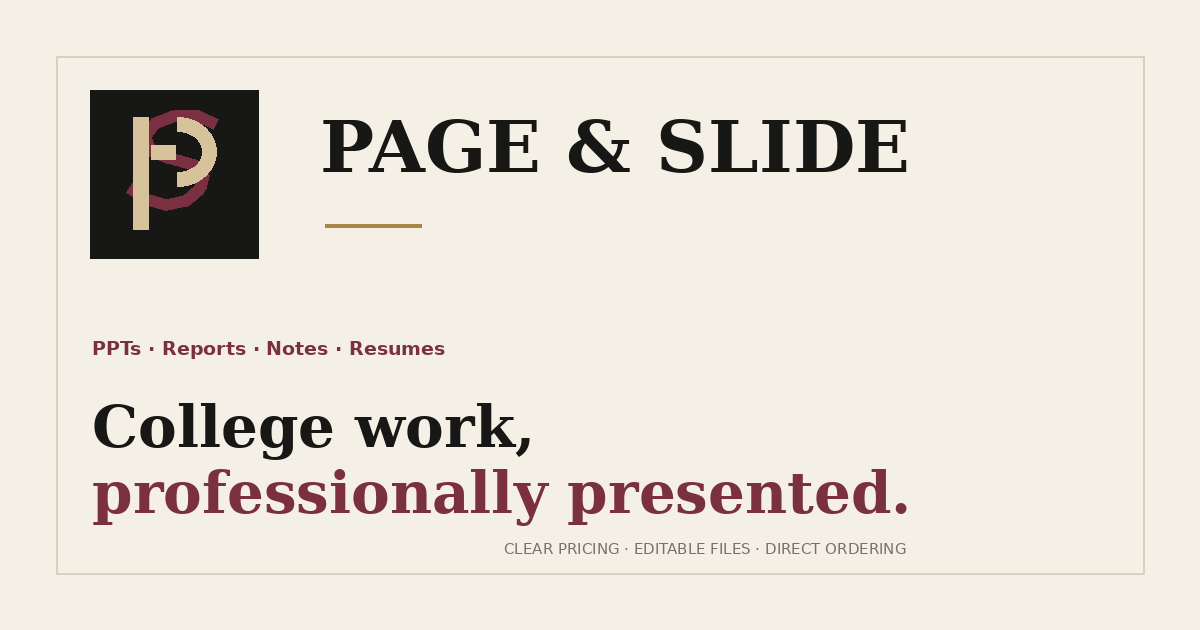
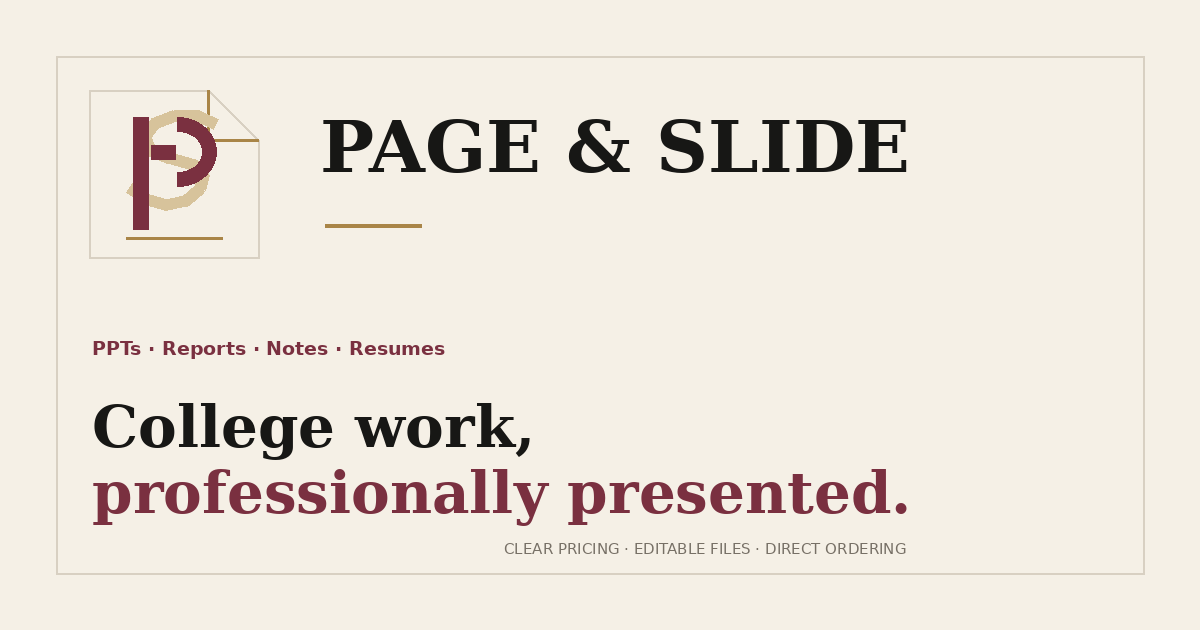
feat: polish Page and Slide brand presentation

Changed region(s): [[0.0617, 0.1206, 0.2158, 0.4222]]

diff --git a/client/src/pages/Home.tsx b/client/src/pages/Home.tsx
@@ -13,5 +13,5 @@ const priceAnchors = [
 ] as const;
 
 export default function Home() {
-  return <StorefrontLayout><main><section className="hero-section" aria-labelledby="hero-title"><div className="hero-folio-mark" aria-hidden="true"><img src="/logo-mark.svg" alt="" /><span>STUDENT<br />SUPPORT</span></div><div className="hero-content"><p className="eyebrow">PPTs · Reports · Notes · Resumes</p><h1 id="hero-title">Your college work,<br /><em>professionally presented.</em></h1><p className="hero-copy">Choose the service and size you need, see the price upfront, and send your order directly through WhatsApp or Telegram. Editable files included.</p><div className="price-anchors" aria-label="Starting prices">{priceAnchors.map((anchor) => { const service = SERVICE_CATEGORIES.find((entry) => entry.id === anchor.serviceId); const firstTier = service?.tiers.find((tier) => tier.addable !== false); return <a href={`#service-${anchor.serviceId}`} key={anchor.serviceId}><span>{anchor.label}</span><strong>{anchor.suffix} {firstTier ? formatRupees(firstTier.price) : "—"}</strong></a>; })}</div><div className="hero-actions"><a className="primary-action" href="#services">Browse services <ArrowDownRight size={17} aria-hidden="true" /></a><a className="text-action" href="#how-it-works">How it works <span aria-hidden="true">→</span></a></div></div></section><section className="trust-strip" aria-label="Page & Slide principles"><div><strong>CLEAR PRICING</strong><span>Know the rate before you enquire.</span></div><div><strong>EDITABLE FILES</strong><span>Stay in control of final changes.</span></div><div><strong>DIRECT ORDERING</strong><span>Share the brief when you are ready.</span></div></section><ServiceCatalogue onAdded={() => undefined} /><section className="why-section" aria-labelledby="why-title"><div><p className="eyebrow">WHY PAGE & SLIDE</p><h2 id="why-title">A calmer way to finish the work.</h2></div><div className="why-copy"><p>Page & Slide is built for college students who want their work to read clearly, look considered and remain editable after delivery.</p><div className="why-points"><span><b>01</b><strong>Start with the scope</strong><small>Choose a service and a size, not a vague promise.</small></span><span><b>02</b><strong>See the number first</strong><small>Catalogue pricing keeps the first conversation straightforward.</small></span><span><b>03</b><strong>Keep the working file</strong><small>Editable delivery helps you make the final decisions.</small></span></div></div></section><section className="process-section" id="how-it-works" aria-labelledby="process-title"><div className="process-heading"><p className="eyebrow">HOW IT WORKS</p><h2 id="process-title">A short route from brief to order.</h2></div><ol className="process-list"><li><span>01</span><h3>Choose your service</h3><p>Select the format and size you need.</p></li><li><span>02</span><h3>Review your order</h3><p>Add your deadline and requirements.</p></li><li><span>03</span><h3>Send the brief</h3><p>Continue through WhatsApp or Telegram and confirm availability.</p></li></ol></section><FaqSection /><section className="final-cta"><p className="eyebrow">READY WHEN YOU ARE</p><h2>Have something<br /><em>due soon?</em></h2><p>Select what you need, review the price, and send us the details.</p><a href="#services" className="primary-action">Browse services <ArrowUpRight size={17} aria-hidden="true" /></a></section></main></StorefrontLayout>;
+  return <StorefrontLayout><main><section className="hero-section" aria-labelledby="hero-title"><div className="hero-content"><p className="eyebrow">PPTs · Reports · Notes · Resumes</p><h1 id="hero-title">College work,<br /><em>beautifully presented.</em></h1><p className="hero-copy">PPTs, reports, notes and resumes — choose what you need, see the price upfront, and order directly through WhatsApp or Telegram. Editable files included.</p><div className="price-anchors" aria-label="Starting prices">{priceAnchors.map((anchor) => { const service = SERVICE_CATEGORIES.find((entry) => entry.id === anchor.serviceId); const firstTier = service?.tiers.find((tier) => tier.addable !== false); return <a href={`#service-${anchor.serviceId}`} key={anchor.serviceId}><span>{anchor.label}</span><strong>{anchor.suffix} {firstTier ? formatRupees(firstTier.price) : "—"}</strong></a>; })}</div><div className="hero-actions"><a className="primary-action" href="#services">Browse services <ArrowDownRight size={17} aria-hidden="true" /></a><a className="text-action" href="#how-it-works">How it works <span aria-hidden="true">→</span></a></div></div></section><section className="trust-strip" aria-label="Page & Slide principles"><div><strong>CLEAR PRICING</strong><span>Know the rate before you enquire.</span></div><div><strong>EDITABLE FILES</strong><span>Stay in control of final changes.</span></div><div><strong>DIRECT ORDERING</strong><span>Share the brief when you are ready.</span></div></section><ServiceCatalogue onAdded={() => undefined} /><section className="why-section" aria-labelledby="why-title"><div><p className="eyebrow">WHY PAGE & SLIDE</p><h2 id="why-title">A calmer way to finish the work.</h2></div><div className="why-copy"><p>Page & Slide is built for college students who want their work to read clearly, look considered and remain editable after delivery.</p><div className="why-points"><span><b>01</b><strong>Start with the scope</strong><small>Choose a service and a size, not a vague promise.</small></span><span><b>02</b><strong>See the number first</strong><small>Catalogue pricing keeps the first conversation straightforward.</small></span><span><b>03</b><strong>Keep the working file</strong><small>Editable delivery helps you make the final decisions.</small></span></div></div></section><section className="process-section" id="how-it-works" aria-labelledby="process-title"><div className="process-heading"><p className="eyebrow">HOW IT WORKS</p><h2 id="process-title">A short route from brief to order.</h2></div><ol className="process-list"><li><span>01</span><h3>Choose your service</h3><p>Select the format and size you need.</p></li><li><span>02</span><h3>Review your order</h3><p>Add your deadline and requirements.</p></li><li><span>03</span><h3>Send the brief</h3><p>Continue through WhatsApp or Telegram and confirm availability.</p></li></ol></section><FaqSection /><section className="final-cta"><p className="eyebrow">READY WHEN YOU ARE</p><h2>Have something<br /><em>due soon?</em></h2><p>Select what you need, review the price, and send us the details.</p><a href="#services" className="primary-action">Browse services <ArrowUpRight size={17} aria-hidden="true" /></a></section></main></StorefrontLayout>;
 }

diff --git a/client/src/index.css b/client/src/index.css
@@ -83,7 +83,7 @@ a:focus-visible, button:focus-visible, input:focus-visible, textarea:focus-visib
 }
 
 .wordmark img { width: 28px; height: 28px; }
-.wordmark-rule { width: 13px; height: 1px; display: inline-block; margin: 0 3px 4px; background: var(--gold); vertical-align: middle; }
+.wordmark-ampersand { display: inline-block; margin: 0 2px; color: var(--wine); font-family: "Cormorant Garamond", Georgia, serif; font-size: 1.45em; font-style: italic; font-weight: 600; letter-spacing: 0; line-height: .7; transform: translateY(1px) rotate(-8deg); }
 
 .site-nav { display: flex; gap: 30px; font-size: 12px; letter-spacing: .04em; }
 .site-nav a, .text-action, .footer-top nav a, .footer-top nav button {
@@ -136,10 +136,10 @@ a:focus-visible, button:focus-visible, input:focus-visible, textarea:focus-visib
 /* Hero Section */
 .hero-section {
   position: relative;
-  min-height: 640px;
+  min-height: 580px;
   max-width: 1440px;
   margin: 0 auto;
-  padding: clamp(80px, 10vw, 144px) 4.5vw 90px;
+  padding: clamp(72px, 8.5vw, 118px) 4.5vw 78px;
   border-bottom: 1px solid var(--line);
   display: flex;
   align-items: center;
@@ -175,10 +175,10 @@ h1, h2 {
   line-height: .92;
 }
 
-h1 { max-width: 720px; margin-bottom: 28px; font-size: clamp(3.65rem, 8vw, 7.25rem); }
+h1 { max-width: 680px; margin-bottom: 24px; font-size: clamp(3.2rem, 6.6vw, 6rem); }
 h1 em, h2 em { color: var(--wine); font-weight: 500; }
 
-.hero-copy { max-width: 535px; margin-bottom: 32px; color: var(--soft-charcoal); font-size: clamp(1rem, 1.3vw, 1.13rem); }
+.hero-copy { max-width: 600px; margin-bottom: 30px; color: var(--soft-charcoal); font-size: clamp(1rem, 1.2vw, 1.1rem); }
 
 .price-anchors {
   display: flex;
@@ -219,17 +219,6 @@ h1 em, h2 em { color: var(--wine); font-weight: 500; }
 
 .text-action { color: var(--charcoal); font-size: 13px; font-weight: 600; }
 
-.hero-folio-mark {
-  position: absolute;
-  top: 38px;
-  right: 4.5vw;
-  display: grid;
-  gap: 8px;
-  text-align: right;
-}
-
-.hero-folio-mark img { width: 48px; height: 48px; justify-self: end; }
-.hero-folio-mark span { font-size: 9px; letter-spacing: .12em; color: var(--gold); line-height: 1.2; }
 
 /* Trust Strip */
 .trust-strip {
@@ -606,11 +595,10 @@ h1 em, h2 em { color: var(--wine); font-weight: 500; }
 @media (max-width: 767px) {
   .topbar-inner { min-height: 64px; padding: 0 17px; grid-template-columns: 1fr auto; }
   .site-nav { display: none; }
-  .hero-section { min-height: 560px; padding: 78px 24px 92px; }
+  .hero-section { min-height: 510px; padding: 68px 24px 76px; }
   .hero-section::before { left: 24px; }
   .hero-content { padding-left: 20px; }
-  h1 { font-size: clamp(3.6rem, 17vw, 5.25rem); }
-  .hero-folio-mark { top: 29px; right: 22px; }
+  h1 { font-size: clamp(3.35rem, 15.5vw, 4.8rem); }
   .hero-actions { gap: 22px; }
   .price-anchors { gap: 12px 24px; }
 

diff --git a/client/src/components/StorefrontLayout.tsx b/client/src/components/StorefrontLayout.tsx
@@ -26,7 +26,7 @@ export function StorefrontLayout({ children }: PropsWithChildren) {
   return <div className="site-shell" id="top">
     <SiteHeader itemCount={itemCount} onOpenCart={openCart} />
     {children}
-    <footer className="site-footer"><div className="footer-top"><div><a href="/" className="wordmark wordmark--footer" aria-label="Page & Slide home"><img src="/logo-mark.svg" alt="" aria-hidden="true" /><span>PAGE <span className="wordmark-rule" /> SLIDE</span></a><p>Student presentation and document support.</p></div><nav aria-label="Footer navigation"><a href="/#services">Services</a><a href="/#how-it-works">How it works</a><a href="/#faq">FAQ</a><a href="/contact">Contact</a><a href="/accessibility">Accessibility</a><span className="footer-group-label">Policies</span><a href="/terms">Terms</a><a href="/privacy">Privacy</a><a href="/refunds">Refunds</a><a href="/delivery-revisions">Delivery</a><a href="/academic-integrity">Academic integrity</a><FooterContactActions /></nav></div><div className="footer-bottom"><span>© {new Date().getFullYear()} Page & Slide. All rights reserved.</span><span>For college students generally. No college or university affiliation is claimed.</span></div></footer>
+    <footer className="site-footer"><div className="footer-top"><div><a href="/" className="wordmark wordmark--footer" aria-label="Page & Slide home"><img src="/logo-mark.svg" alt="" aria-hidden="true" /><span>PAGE <span className="wordmark-ampersand" aria-hidden="true">&amp;</span> SLIDE</span></a><p>Student presentation and document support.</p></div><nav aria-label="Footer navigation"><a href="/#services">Services</a><a href="/#how-it-works">How it works</a><a href="/#faq">FAQ</a><a href="/contact">Contact</a><a href="/accessibility">Accessibility</a><span className="footer-group-label">Policies</span><a href="/terms">Terms</a><a href="/privacy">Privacy</a><a href="/refunds">Refunds</a><a href="/delivery-revisions">Delivery</a><a href="/academic-integrity">Academic integrity</a><FooterContactActions /></nav></div><div className="footer-bottom"><span>© {new Date().getFullYear()} Page & Slide. All rights reserved.</span><span>For college students generally. No college or university affiliation is claimed.</span></div></footer>
     <p className="sr-only" aria-live="polite">{cartMessage}</p>
     {itemCount > 0 && <button type="button" className="mobile-cart-bar" onClick={openCart}><span><ShoppingBag size={17} aria-hidden="true" /> {itemCount} {itemCount === 1 ? "item" : "items"}</span><strong>{formatRupees(subtotal)}</strong><b>View order <span aria-hidden="true">→</span></b></button>}
     <CartDialog open={cartOpen} onOpenChange={setCartOpen} onCloseFocus={restoreCartFocus} onReview={() => { setCartOpen(false); setDetailsOpen(true); }} />

diff --git a/client/src/config/site.ts b/client/src/config/site.ts
@@ -16,8 +16,8 @@ export function toSiteUrl(path = "/"): string {
 }
 
 export const SITE_METADATA = {
-  title: "Page & Slide | College work, professionally presented",
-  description: "Presentation design, assignment support, project reports, notes and resumes for college students. Clear INR pricing, editable files and direct WhatsApp or Telegram ordering.",
+  title: "Page & Slide | PPTs, Reports, Notes & Resumes for Students",
+  description: "PPTs, reports, notes and resumes for students. Choose what you need, see the price upfront, and order directly through WhatsApp or Telegram. Editable files included.",
   canonicalUrl: SITE_URL,
   socialImageUrl: toSiteUrl("/page-and-slide-social.png"),
   socialImageWidth: 1200,
@@ -34,7 +34,7 @@ export type PublicRoute = Readonly<{
 }>;
 
 const ROUTE_DEFINITIONS: readonly PublicRoute[] = [
-  { path: "/", title: SITE_METADATA.title, description: SITE_METADATA.description, h1: "Your college work, professionally presented.", summary: "Choose a presentation, report, notes, resume or assignment-support service, review the price upfront, and send your brief through WhatsApp or Telegram.", indexable: true },
+  { path: "/", title: SITE_METADATA.title, description: SITE_METADATA.description, h1: "College work, beautifully presented.", summary: "PPTs, reports, notes and resumes — choose what you need, see the price upfront, and order directly through WhatsApp or Telegram. Editable files included.", indexable: true },
   { path: "/presentations", title: "Presentation Design for College Students | Page & Slide", description: "Editable presentation design for college students, with clear INR pricing, considered slide layouts and direct WhatsApp or Telegram ordering.", h1: "Presentations that make the point clearly.", summary: "Choose an editable presentation package by slide count, from up to 5 slides at ₹99.", indexable: true },
   { path: "/assignment-support", title: "Assignment Support and Formatting | Page & Slide", description: "Assignment formatting, editing, organisation and presentation support for college students, with transparent INR pricing and editable output.", h1: "Assignment support, with structure.", summary: "Get help with formatting, editing, organisation and presentation polish, with packages from ₹79.", indexable: true },
   { path: "/project-reports", title: "Project Report Formatting for College Students | Page & Slide", description: "Project report formatting and presentation polish for college students, with editable files, transparent INR pricing and direct ordering.", h1: "Project reports with a considered finish.", summary: "Choose an editable project-report package by page count, from up to 20 pages at ₹199.", indexable: true },

diff --git a/client/src/components/SiteHeader.tsx b/client/src/components/SiteHeader.tsx
@@ -3,5 +3,5 @@ import { ShoppingBag } from "lucide-react";
 type SiteHeaderProps = Readonly<{ itemCount: number; onOpenCart: () => void }>;
 
 export function SiteHeader({ itemCount, onOpenCart }: SiteHeaderProps) {
-  return <header className="site-header"><div className="topbar-inner"><a href="/" className="wordmark" aria-label="Page & Slide home"><img src="/logo-mark.svg" alt="" aria-hidden="true" /><span>PAGE <span className="wordmark-rule" /> SLIDE</span></a><nav className="site-nav" aria-label="Primary navigation"><a href="/#services">Services</a><a href="/#how-it-works">How it works</a><a href="/#faq">FAQ</a><a href="/contact">Contact</a></nav><button className="cart-toggle" type="button" onClick={onOpenCart} aria-label={`Open cart, ${itemCount} items`}><ShoppingBag size={18} strokeWidth={1.7} aria-hidden="true" /><span>Cart</span>{itemCount > 0 && <span className="cart-count" aria-hidden="true">{itemCount}</span>}</button></div></header>;
+  return <header className="site-header"><div className="topbar-inner"><a href="/" className="wordmark" aria-label="Page & Slide home"><img src="/logo-mark.svg" alt="" aria-hidden="true" /><span>PAGE <span className="wordmark-ampersand" aria-hidden="true">&amp;</span> SLIDE</span></a><nav className="site-nav" aria-label="Primary navigation"><a href="/#services">Services</a><a href="/#how-it-works">How it works</a><a href="/#faq">FAQ</a><a href="/contact">Contact</a></nav><button className="cart-toggle" type="button" onClick={onOpenCart} aria-label={`Open cart, ${itemCount} items`}><ShoppingBag size={18} strokeWidth={1.7} aria-hidden="true" /><span>Cart</span>{itemCount > 0 && <span className="cart-count" aria-hidden="true">{itemCount}</span>}</button></div></header>;
 }

diff --git a/e2e/hosted-preview.spec.ts b/e2e/hosted-preview.spec.ts
@@ -13,9 +13,9 @@ test("Vercel preview passes responsive, cart, checkout, accessibility, and safet
   page.on("response", (response) => { if (response.status() >= 400) failedResponses.push(`${response.status()} ${response.url()}`); });
 
   await page.goto(hostedUrl!, { waitUntil: "domcontentloaded" });
-  await expect(page).toHaveTitle("Page & Slide | College work, professionally presented");
+  await expect(page).toHaveTitle("Page & Slide | PPTs, Reports, Notes & Resumes for Students");
   await expect(page.getByRole("heading", { level: 1 })).toHaveCount(1);
-  await expect(page.getByRole("heading", { name: /Your college work/i })).toBeVisible();
+  await expect(page.getByRole("heading", { name: /College work/i })).toBeVisible();
   await expect(page.getByText("PPTs · Reports · Notes · Resumes", { exact: true })).toBeVisible();
   await expect(page.getByRole("navigation", { name: "Primary navigation" })).toBeVisible();
   await expect(page.getByRole("button", { name: /Open cart, 0 items/i })).toBeVisible();
@@ -67,7 +67,7 @@ test("Vercel preview passes responsive, cart, checkout, accessibility, and safet
   for (const width of requestedWidths) {
     await page.setViewportSize({ width, height: 900 });
     await page.reload({ waitUntil: "domcontentloaded" });
-    await expect(page.getByRole("heading", { name: /Your college work/i })).toBeVisible();
+    await expect(page.getByRole("heading", { name: /College work/i })).toBeVisible();
     await expect(page.locator(".catalogue-section")).toBeVisible();
     await expect(page.locator(".process-section")).toBeVisible();
     await expect(page.locator(".faq-section")).toBeVisible();

diff --git a/client/src/config/site.test.ts b/client/src/config/site.test.ts
@@ -6,8 +6,8 @@ describe("production search configuration", () => {
     expect(SITE_ORIGIN).toBe("https://pageandslide.vercel.app");
     expect(SITE_URL).toBe("https://pageandslide.vercel.app/");
     expect(SITE_METADATA.canonicalUrl).toBe(SITE_URL);
-    expect(SITE_METADATA.title).toBe("Page & Slide | College work, professionally presented");
-    expect(SITE_METADATA.description).toContain("college students");
+    expect(SITE_METADATA.title).toBe("Page & Slide | PPTs, Reports, Notes & Resumes for Students");
+    expect(SITE_METADATA.description).toContain("students");
     expect(SITE_METADATA.title).not.toMatch(/MCC|Madras Christian College/i);
     expect(SITE_METADATA.socialImageUrl).toBe("https://pageandslide.vercel.app/page-and-slide-social.png");
     expect(ORGANIZATION_DETAILS.telephone).toBe("+91 9025857269");

diff --git a/e2e/customer-path.spec.ts b/e2e/customer-path.spec.ts
@@ -2,7 +2,7 @@ import { expect, test } from "@playwright/test";
 
 test("customer can add a service, review it, and receive the configured WhatsApp order link", async ({ page }) => {
   await page.goto("/");
-  await expect(page.getByRole("heading", { name: /Your college work/i })).toBeVisible();
+  await expect(page.getByRole("heading", { name: /College work/i })).toBeVisible();
   await page.getByRole("button", { name: "Add" }).first().click();
   await page.getByRole("button", { name: /Open cart, 1 items/i }).click();
   await expect(page.getByRole("dialog", { name: /Order/i })).toBeVisible();

diff --git a/e2e/responsive.spec.ts b/e2e/responsive.spec.ts
@@ -8,7 +8,7 @@ test("the editorial catalogue has no horizontal overflow at all required breakpo
   for (const [width, height] of viewports) {
     await page.setViewportSize({ width, height });
     await page.goto("/");
-    await expect(page.getByRole("heading", { name: /Your college work/i })).toBeVisible();
+    await expect(page.getByRole("heading", { name: /College work/i })).toBeVisible();
     expect(await page.evaluate(() => document.documentElement.scrollWidth <= window.innerWidth)).toBe(true);
   }
 });

diff --git a/scripts/generate-social-assets.py b/scripts/generate-social-assets.py
@@ -23,18 +23,22 @@ def font(name: str, size: int) -> ImageFont.FreeTypeFont:
 
 
 def monogram(draw: ImageDraw.ImageDraw, x: int, y: int, size: int) -> None:
-    draw.rectangle((x, y, x + size, y + size), fill=CHARCOAL)
     scale = size / 168
-    # Custom geometric S: a single burgundy ribbon behind the P, not a font glyph.
+    page = [(x, y), (x + int(118 * scale), y), (x + size, y + int(50 * scale)), (x + size, y + size), (x, y + size)]
+    draw.polygon(page, fill=IVORY)
+    draw.line(page + [page[0]], fill=LINE, width=max(2, int(2 * scale)))
+    draw.line((x + int(118 * scale), y, x + int(118 * scale), y + int(50 * scale), x + size, y + int(50 * scale)), fill="#a98547", width=max(2, int(3 * scale)))
+    # Custom geometric S: a single champagne ribbon behind the P, not a font glyph.
     s_points = [(126, 34), (109, 26), (84, 26), (63, 34), (54, 47), (59, 59), (78, 67), (103, 74), (113, 84), (109, 99), (95, 111), (76, 115), (55, 109), (39, 98)]
-    draw.line([(x + px * scale, y + py * scale) for px, py in s_points], fill=BURGUNDY, width=max(5, int(12 * scale)), joint="curve")
-    # Custom champagne P: a strong stem and open bowl that locks with the S.
+    draw.line([(x + px * scale, y + py * scale) for px, py in s_points], fill=GOLD, width=max(5, int(12 * scale)), joint="curve")
+    # Custom burgundy P: a strong stem and open bowl that locks with the S.
     stem_x = x + int(43 * scale)
     stem_width = max(6, int(15 * scale))
-    draw.rectangle((stem_x, y + int(27 * scale), stem_x + stem_width, y + int(139 * scale)), fill=GOLD)
+    draw.rectangle((stem_x, y + int(27 * scale), stem_x + stem_width, y + int(139 * scale)), fill=BURGUNDY)
     bowl = (x + int(48 * scale), y + int(27 * scale), x + int(126 * scale), y + int(96 * scale))
-    draw.arc(bowl, start=270, end=90, fill=GOLD, width=max(5, int(15 * scale)))
-    draw.line((x + int(61 * scale), y + int(62 * scale), x + int(85 * scale), y + int(62 * scale)), fill=GOLD, width=max(5, int(15 * scale)))
+    draw.arc(bowl, start=270, end=90, fill=BURGUNDY, width=max(5, int(15 * scale)))
+    draw.line((x + int(61 * scale), y + int(62 * scale), x + int(85 * scale), y + int(62 * scale)), fill=BURGUNDY, width=max(5, int(15 * scale)))
+    draw.line((x + int(36 * scale), y + int(148 * scale), x + int(132 * scale), y + int(148 * scale)), fill="#a98547", width=max(3, int(3 * scale)))
 
 
 def make_social() -> None:

diff --git a/page-slide-asset-audit.md b/page-slide-asset-audit.md
@@ -15,3 +15,9 @@ Fresh desktop and 390px mobile captures show the Page & Slide wordmark/mark, exa
 ## Detail and legal visual inspection
 
 The refreshed presentation-detail capture shows Page & Slide branding in the shared header/footer, the approved editorial typography, catalogue pricing and add-to-cart controls. The refreshed Terms capture shows Page & Slide references throughout the active legal copy and the existing honest email blocker note, with no visible SoftBazzar residue.
+
+## Final polish visual QA
+
+The refreshed desktop capture shows the headline reduced to the requested two-line hierarchy, with “College work,” followed by “beautifully presented.” and the supporting explanation visible before the pricing anchors. The redundant floating hero mark is gone. The refreshed 390px capture retains the same immediate comprehension, wraps the supporting copy safely, keeps the new page-inspired mark and ampersand wordmark readable, and preserves the existing catalogue, pricing and mobile layout without visible overflow.
+
+The corrected mark was re-inspected after the first P&S geometry read too close to a B-like silhouette. The current mark reads as an integrated burgundy P with a distinct champagne S, framed by a folded page corner and gold presentation baseline, with no black-square container. The 512×512 avatar preserves the same geometry and palette with clear social-scale legibility.

diff --git a/vercel_alias_audit.md b/vercel_alias_audit.md
@@ -1,0 +1,5 @@
+## Vercel alias and rename audit
+
+The existing Vercel MCP tool inventory exposes read-only project/deployment inspection and deployment protection operations, but no project-rename, project-domain, or alias-assignment mutation. The official Vercel documentation search result identifies `vercel project rename <name> <new-name>` for renaming an existing project and documents `alias` in `vercel.json` as a deployment-alias mechanism. Source: https://vercel.com/docs/cli/project and https://vercel.com/docs/project-configuration/vercel-json.
+
+Current project inspection confirms the existing project is named `softbazzar`, project ID `prj_q3cMbX3jlTvZv92oXOCaH3HdtjqI`, and its attached domains are `softbazzar.vercel.app`, `softbazzar-pavithrans-projects-cae184b1.vercel.app`, and `softbazzar-git-main-pavithrans-projects-cae184b1.vercel.app`. The requested `https://pageandslide.vercel.app` check did not return an attachable share URL, so it is not claimed as attached. The sandbox has no Vercel CLI binary or pre-authorized Vercel CLI credential; no duplicate project or production mutation was attempted.
